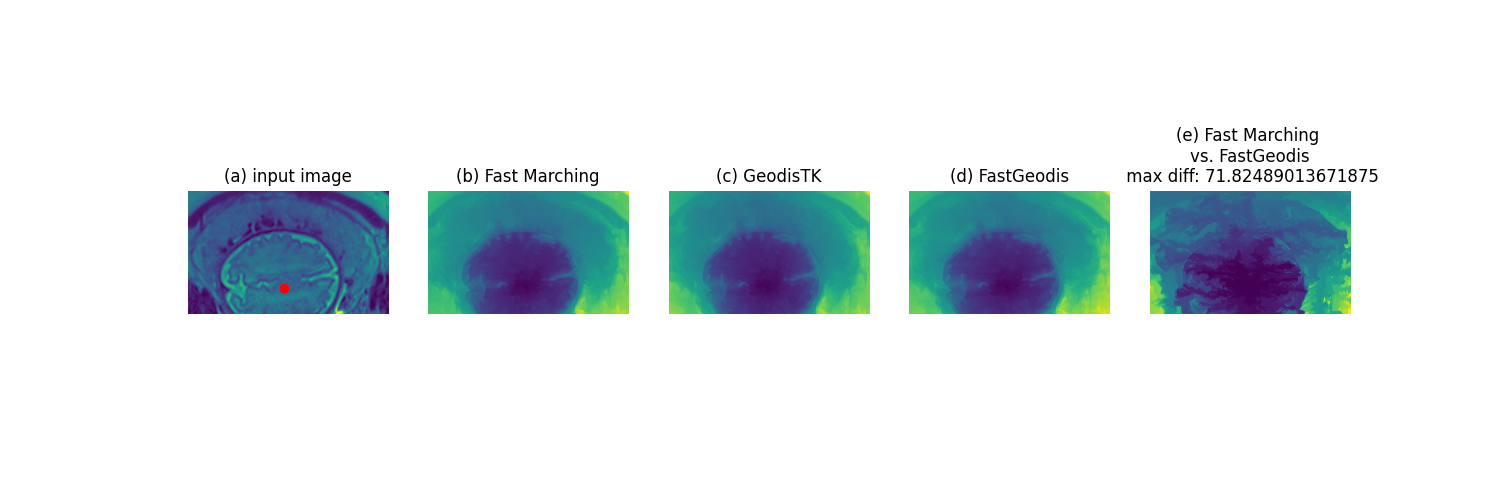
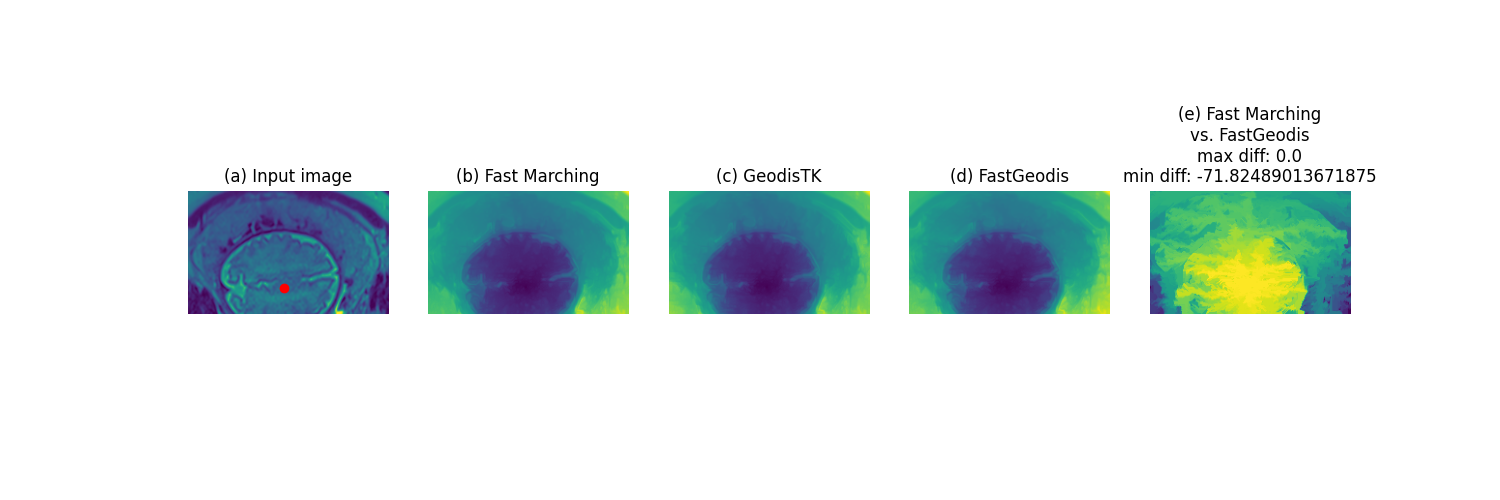
update comparison vs Fast Marching - relative errors visualisation - joint histogram comparison

Changed region(s): [[0.736, 0.21, 0.92, 0.63], [0.1533, 0.33, 0.2453, 0.36]]

diff --git a/demo3d.py b/demo3d.py
@@ -12,6 +12,7 @@ import FastGeodis
 def geodistk_generalised_geodesic_distance_3d(I, S, spacing, v, lamb, iter):
     return GeodisTK.generalised_geodesic3d_raster_scan(I, S, spacing, v, lamb, iter)
 
+
 def fastgeodis_generalised_geodesic_distance_3d(I, S, spacing, v, lamda, iter):
     return FastGeodis.generalised_geodesic3d(I, S, spacing, v, lamda, iter)
 
@@ -19,22 +20,30 @@ def fastgeodis_generalised_geodesic_distance_3d(I, S, spacing, v, lamda, iter):
 def demo_geodesic_distance3d():
     input_name = "data/img3d.nii.gz"
     img = sitk.ReadImage(input_name)
-    I   = sitk.GetArrayFromImage(img)
+    I = sitk.GetArrayFromImage(img)
     spacing_raw = img.GetSpacing()
-    spacing = [spacing_raw[2], spacing_raw[1],spacing_raw[0]]
+    spacing = [spacing_raw[2], spacing_raw[1], spacing_raw[0]]
     I = np.asarray(I, np.float32)
-    I = I[18:38, 63:183, 93:233 ]
+    I = I[18:38, 63:183, 93:233]
     S = np.zeros_like(I, np.uint8)
     S[10][60][70] = 1
     t0 = time.time()
-    D1 = GeodisTK.generalised_geodesic3d_fast_marching(I,1-S.astype(np.float32), spacing, 1e10)
+    D1 = GeodisTK.generalised_geodesic3d_fast_marching(
+        I, 1 - S.astype(np.float32), spacing, 1e10
+    )
     t1 = time.time()
-    D2 = geodistk_generalised_geodesic_distance_3d(I,1-S.astype(np.float32), spacing, 1e10, 1.0, 4)
+    D2 = geodistk_generalised_geodesic_distance_3d(
+        I, 1 - S.astype(np.float32), spacing, 1e10, 1.0, 4
+    )
     dt1 = t1 - t0
     dt2 = time.time() - t1
     It = torch.from_numpy(I).unsqueeze_(0).unsqueeze_(0)
-    St = torch.from_numpy(1-S.astype(np.float32)).unsqueeze_(0).unsqueeze_(0)
-    D3 = np.squeeze(fastgeodis_generalised_geodesic_distance_3d(It, St, spacing, 1e10, 1.0, 4).numpy())
+    St = torch.from_numpy(1 - S.astype(np.float32)).unsqueeze_(0).unsqueeze_(0)
+    D3 = np.squeeze(
+        fastgeodis_generalised_geodesic_distance_3d(
+            It, St, spacing, 1e10, 1.0, 4
+        ).numpy()
+    )
     print("runtime(s) fast marching {0:}".format(dt1))
     print("runtime(s) raster scan   {0:}".format(dt2))
 
@@ -49,35 +58,71 @@ def demo_geodesic_distance3d():
     img_d3 = sitk.GetImageFromArray(D3)
     img_d3.SetSpacing(spacing_raw)
     sitk.WriteImage(img_d3, "data/image3d_dis3.nii.gz")
-    
+
     I_sub = sitk.GetImageFromArray(I)
     I_sub.SetSpacing(spacing_raw)
     sitk.WriteImage(I_sub, "data/image3d_sub.nii.gz")
-    
-    I = I*255/I.max()
+
+    I = I * 255 / I.max()
     I = np.asarray(I, np.uint8)
 
     I_slice = I[10]
-    D1_slice = D1[10] 
+    D1_slice = D1[10]
     D2_slice = D2[10]
     D3_slice = D3[10]
     plt.figure(figsize=(15, 5))
-    plt.subplot(1,5,1); plt.imshow(I_slice, cmap='gray')
-    plt.autoscale(False);  plt.plot([70], [60], 'ro')
-    plt.axis('off'); plt.title('(a) Input image')
-    
-    plt.subplot(1,5,2); plt.imshow(D1_slice)
-    plt.axis('off'); plt.title('(b) Fast Marching')
-    
-    plt.subplot(1,5,3); plt.imshow(D2_slice)
-    plt.axis('off'); plt.title('(c) GeodisTK')
+    plt.subplot(1, 5, 1)
+    plt.imshow(I_slice, cmap="gray")
+    plt.autoscale(False)
+    plt.plot([70], [60], "ro")
+    plt.axis("off")
+    plt.title("(a) Input image")
 
-    plt.subplot(1,5,4); plt.imshow(D3_slice)
-    plt.axis('off'); plt.title('(d) FastGeodis')
-    
-    plt.subplot(1,5,5); plt.imshow(D1_slice-D3_slice)
-    plt.axis('off'); plt.title('(d) Fast Marching \nvs. FastGeodis\n max diff: {}'.format(np.max(np.abs(D1-D3))))
+    plt.subplot(1, 5, 2)
+    plt.imshow(D1_slice)
+    plt.axis("off")
+    plt.title("(b) Fast Marching")
+
+    plt.subplot(1, 5, 3)
+    plt.imshow(D2_slice)
+    plt.axis("off")
+    plt.title("(c) GeodisTK")
+
+    plt.subplot(1, 5, 4)
+    plt.imshow(D3_slice)
+    plt.axis("off")
+    plt.title("(d) FastGeodis")
+
+    diff = D1 - D3
+    diff_slice = diff[10]
+    plt.subplot(1, 5, 5)
+    plt.imshow(diff_slice)
+    plt.axis("off")
+    plt.title(
+        "(d) Fast Marching \nvs. FastGeodis\nmax diff: {}\nmin diff: {}".format(
+            np.max(diff), np.min(diff)
+        )
+    )
     plt.show()
 
-if __name__ == '__main__':
+    plt.figure()
+    plt.subplot(1, 2, 1)
+    plt.hist2d(D1.flatten(), D2.flatten(), bins=50)
+    plt.xlabel("Fast Marching")
+    plt.ylabel("GeodisTK")
+    plt.title("Joint histogram\nFast Marching vs. GeodisTK")
+    # plt.gca().set_aspect("equal", adjustable="box")
+
+    plt.subplot(1, 2, 2)
+    plt.hist2d(D1.flatten(), D3.flatten(), bins=50)
+    plt.xlabel("Fast Marching")
+    plt.ylabel("FastGeodis")
+    plt.title("Joint histogram\nFast Marching vs. FastGeodis")
+    # plt.gca().set_aspect("equal", adjustable="box")
+
+    plt.tight_layout()
+    plt.show()
+
+
+if __name__ == "__main__":
     demo_geodesic_distance3d()

diff --git a/demo2d.py b/demo2d.py
@@ -38,7 +38,7 @@ def demo_geodesic_distance2d(img, seed_pos):
     plt.figure(figsize=(15,5))
     plt.subplot(1,5,1); plt.imshow(img)
     plt.autoscale(False);  plt.plot([seed_pos[0]], [seed_pos[1]], 'ro')
-    plt.axis('off'); plt.title('(a) input image')
+    plt.axis('off'); plt.title('(a) Input image')
     
     plt.subplot(1,5,2); plt.imshow(D1)
     plt.axis('off'); plt.title('(b) Fast Marching')
@@ -49,8 +49,27 @@ def demo_geodesic_distance2d(img, seed_pos):
     plt.subplot(1,5,4); plt.imshow(D3)
     plt.axis('off'); plt.title('(d) FastGeodis')
 
-    plt.subplot(1,5,5); plt.imshow(np.abs(D1-D3))
-    plt.axis('off'); plt.title('(e) Fast Marching\nvs. FastGeodis\n max diff: {}'.format(np.max(np.abs(D1-D3))))
+    diff = D1-D3
+    plt.subplot(1,5,5); plt.imshow(diff)
+    plt.axis('off'); plt.title('(e) Fast Marching\nvs. FastGeodis\nmax diff: {}\nmin diff: {}'.format(np.max(diff), np.min(diff)))
+    plt.show()
+
+    plt.figure()
+    plt.subplot(1, 2, 1)
+    plt.hist2d(D1.flatten(), D2.flatten(), bins=50)
+    plt.xlabel("Fast Marching")
+    plt.ylabel("GeodisTK")
+    plt.title("Joint histogram\nFast Marching vs. GeodisTK")
+    # plt.gca().set_aspect("equal", adjustable="box")
+
+    plt.subplot(1, 2, 2)
+    plt.hist2d(D1.flatten(), D3.flatten(), bins=50)
+    plt.xlabel("Fast Marching")
+    plt.ylabel("FastGeodis")
+    plt.title("Joint histogram\nFast Marching vs. FastGeodis")
+    # plt.gca().set_aspect("equal", adjustable="box")
+
+    plt.tight_layout()
     plt.show()
 
 def demo_geodesic_distance2d_gray_scale_image():
